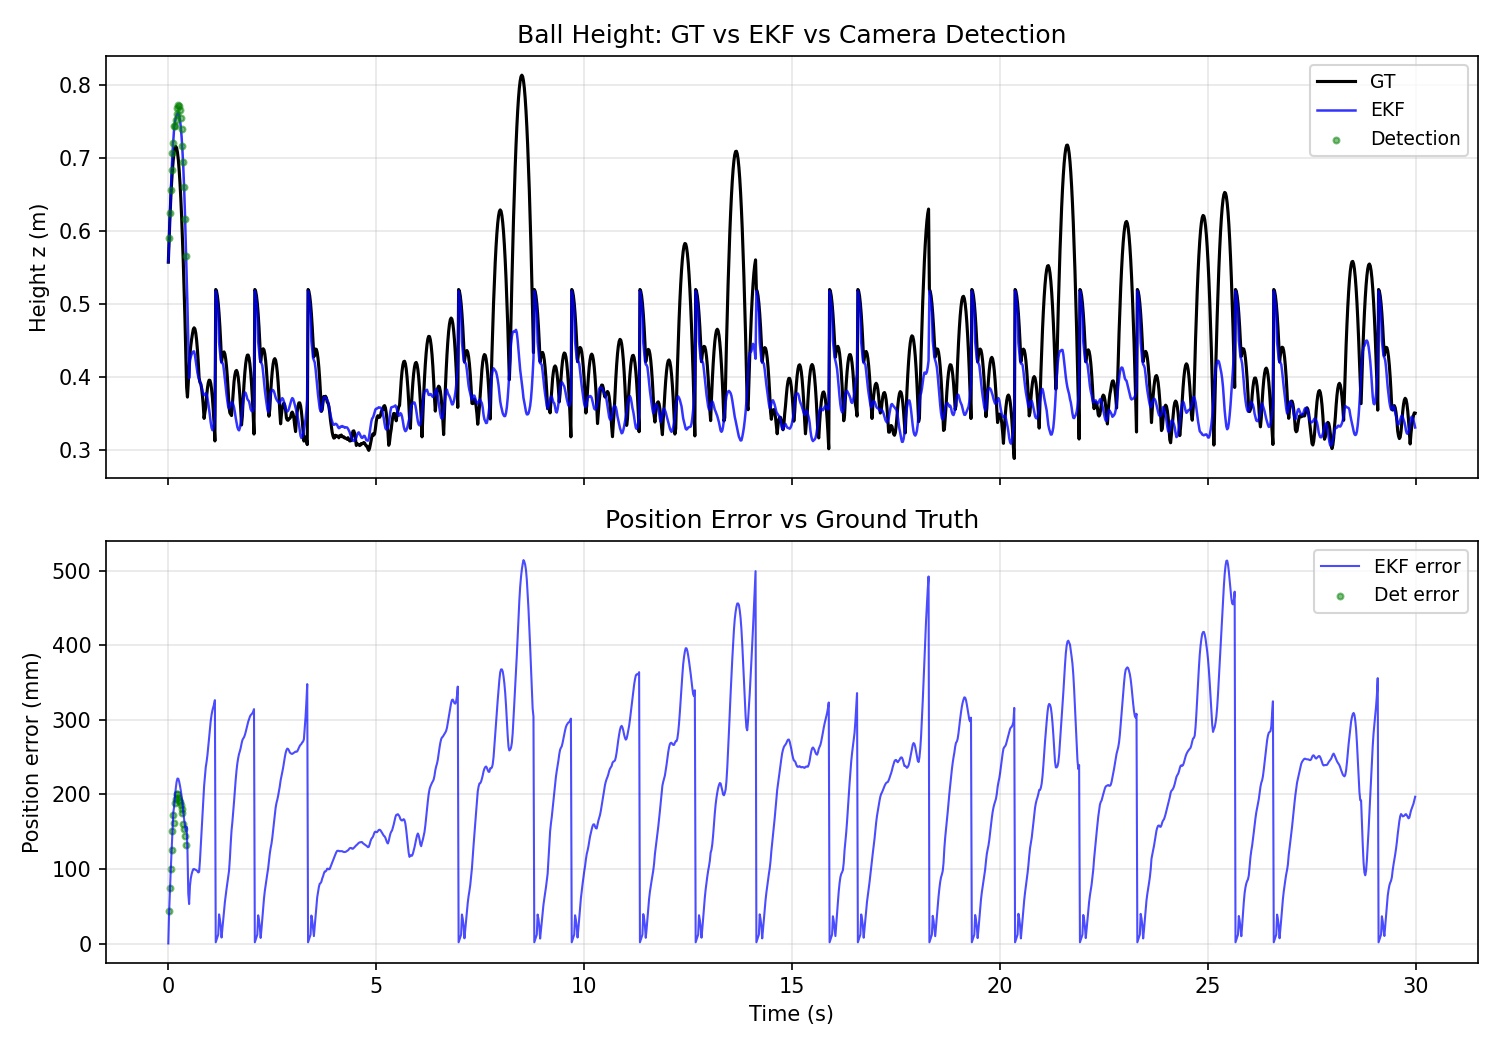
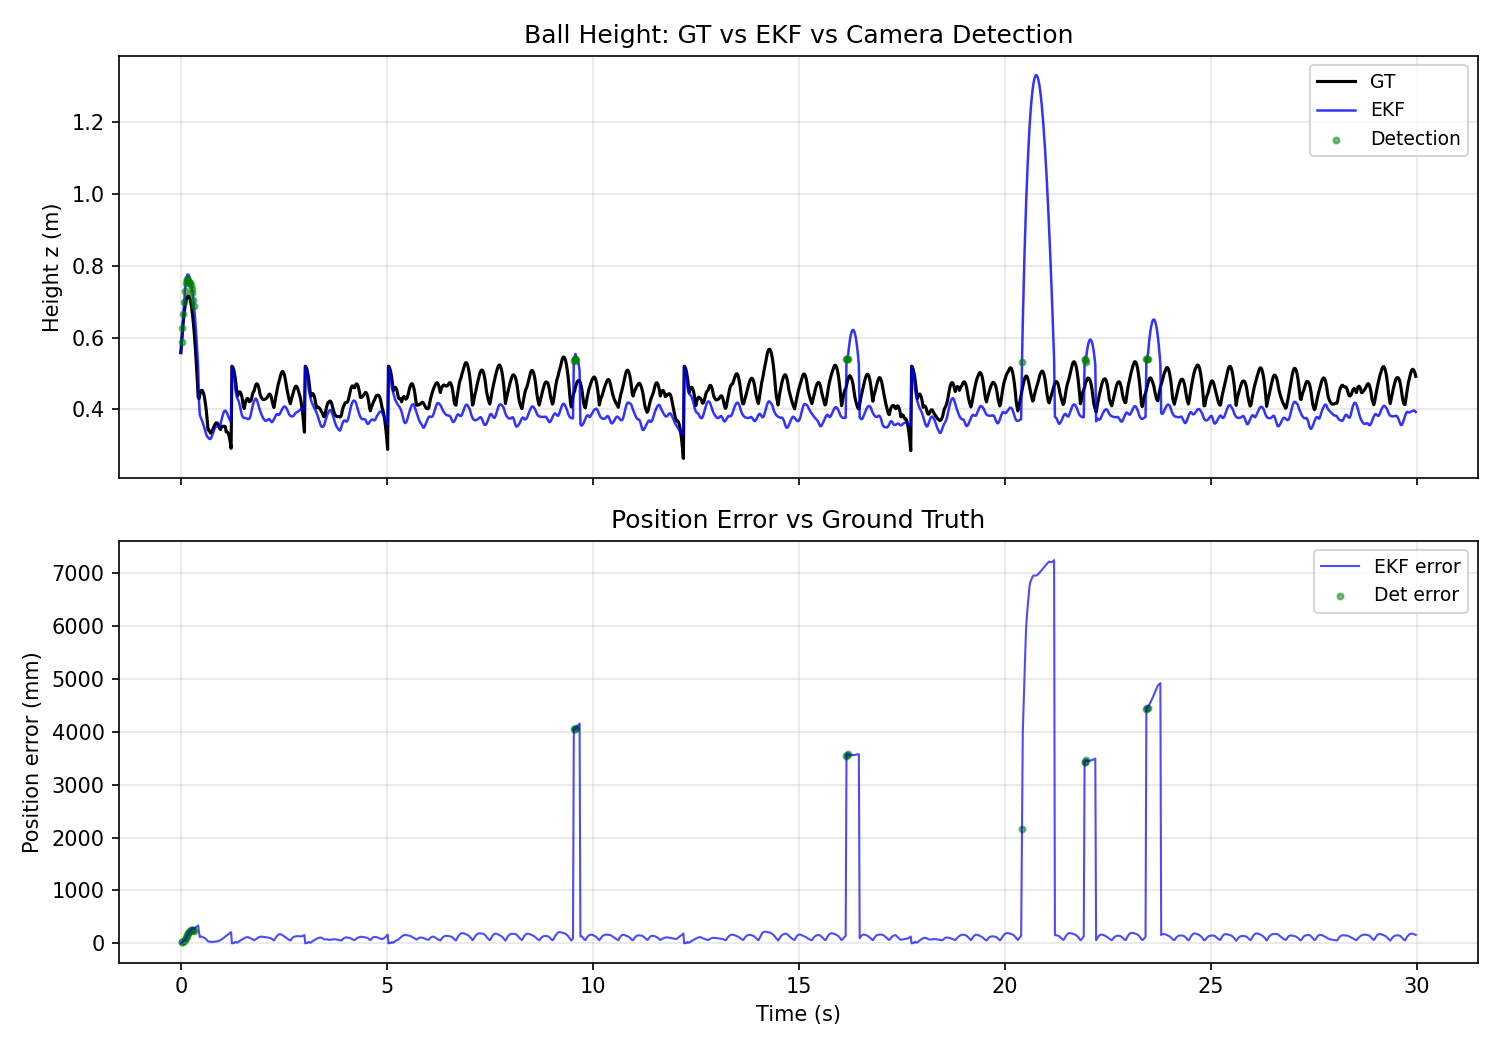
Iteration 116: Stage G starvation eval — det 1-2%, policy bottleneck confirmed

diff --git a/.c3r/RESEARCH_LOG.md b/.c3r/RESEARCH_LOG.md
@@ -125,3 +125,46 @@ Result:     Code ready. GPU eval needed to verify detection rate improvement.
 Decision:   Next iter: run Stage G eval with starve_limit=10 when GPU free. Compare
             detection rates vs iter 114 (limit=50). If GPU still blocked, consider
             preparing the anchor ablation analysis or Quarto experiment page.
+
+## Iteration 116 — Stage G starvation eval + pi2 default fix  (2026-04-09T14:30:00Z)
+Hypothesis: Reducing SCHED_STARVE_LIMIT from 50→10 (iter 115) will break the camera
+            scheduling death spiral, raising detection rate from ~1% to >30%.
+Change:     1. Fixed pi2 default in run_perception_eval.sh: 09-04-32 → 17-16-01
+               (matching the checkpoint the policy agent uses for Stage G training).
+            2. Ran full Stage G d435i eval: 5 targets (0.10-1.00), 1500 steps, 4 envs,
+               anchor=ON, camera-scheduling=ON, starve_limit=10.
+            3. Attempted oracle comparison but GPU blocked by policy training.
+Command:    gpu_lock.sh bash run_perception_eval.sh --pi1 .../2026-04-09_07-19-27/model_best.pt
+            --targets "0.10 0.30 0.50 0.70 1.00" --anchor --camera-scheduling
+            --starve-limit 10 --label stage_g_starve10 --steps 1500 --num-envs 4
+Result:     STARVATION FIX: MARGINAL IMPACT. Detection rates still 1.0-2.0% (vs 1.1%
+            in iter 114 with limit=50). Root cause is NOT starvation — it's that the
+            ball rarely enters flight.
+
+            | Target | Det% | EKF_RMSE | TO%  | Bounces | Flight% | Peak   |
+            |--------|------|----------|------|---------|---------|--------|
+            | 0.10   | 1.0% | 0.145m   | 75%  | 0.0     | 0.0%    | 0.000m |
+            | 0.30   | 1.1% | 0.146m   | 50%  | 0.5     | 2.0%    | 0.662m |
+            | 0.50   | 1.0% | 0.142m   | 50%  | 0.2     | 0.9%    | 0.485m |
+            | 0.70   | 1.7% | 0.444m   | 0%   | 1.2     | 6.2%    | 0.503m |
+            | 1.00   | 2.0% | 0.436m   | 0%   | 2.2     | 23.2%   | 0.701m |
+
+            KEY FINDINGS:
+            - Low targets (0.10-0.50): Policy BALANCES (50-75% TO), never bounces.
+              EKF RMSE ~0.14m from anchor updates alone. Detection useless.
+            - High targets (0.70-1.00): Policy ATTEMPTS juggling but drops ball fast
+              (0% TO, 8-19 episodes). Ball reaches 0.5-0.7m (not target). Some detections
+              but huge detection RMSE (1.8-2.2m = false positives at distance).
+            - Anchor dominates: 87-98% anchor rate. EKF tracks via paddle position.
+            - Flight-conditional det rate: at target=1.00, 30 det / ~180 flight steps
+              ≈ 17% per flight-step — reasonable for the camera FOV.
+            - Core bottleneck is POLICY, not perception. The d435i Stage G checkpoint
+              can balance but can't juggle reliably.
+            - Policy agent currently training new Stage G run (nohup, PID 1348279,
+              from 2026-04-08_22-51-56 checkpoint).
+Decision:   Next iter: (1) run oracle comparison when GPU frees to confirm perception
+            vs policy split, (2) update Quarto with these findings. The perception
+            pipeline is essentially feature-complete — further progress depends on the
+            policy agent producing a better juggling policy. Consider running the
+            oracle-trained checkpoint (2026-04-08_19-19-41) through our pipeline to see
+            if it juggles better (it was oracle-trained Stage F, should balance well).

diff --git a/.c3r/SIBLINGS.md b/.c3r/SIBLINGS.md
@@ -27,15 +27,15 @@ Siblings will see it in their next SIBLINGS.md refresh.
 ## policy
 - **role**: generic
 - **focus**: retrain pi1 with noise-injected ball observations from the perception pipeline, validate degradation versus oracle baseline and restore performance via curriculum and noise scheduling.
-- **status**: running · iter #19 · ctx 81%
+- **status**: running · iter #20 · ctx 81%
 
 ### Recent commits on `agent/policy`
 ```
+e92a1df Iteration 31: Stage G training launched — mixed targets + height-dependent noise sync
 67aef9d Iteration 30: cross-eval analysis + Stage G preparation
 3b94cfd Iteration 29: fix eval partial-episode bug + corrected cross-eval
 c1236f9 Iteration 28: cross-eval — d435i vs oracle under swapped obs modes
 cce1b18 Iteration 27: d435i reaches Stage F — full comparison (apex +59% vs oracle)
-a7c6d74 Iteration 26: d435i vs oracle comparison — noise outperforms oracle at Stage E (+176% apex)
 ```
 ### Files modified on `agent/policy` (relative to `c3r/QuadruJuggle`)
 ```

diff --git a/.c3r/fix_plan.md b/.c3r/fix_plan.md
@@ -32,8 +32,9 @@
 - [x] ROOT CAUSE: policy is balancing (Stage F), not juggling. Camera works fine during flight.
 - [~] UNBLOCKING: policy agent training Stage G now (d435i noise, mixed targets 0.10-0.50m)
   - [x] Created parameterized run_perception_eval.sh (iter 112) — replaces hardcoded scripts
-  - [ ] Run Stage G eval: `run_perception_eval.sh --pi1 <stage_g_best.pt> --targets "0.10 0.30 0.50 0.70 1.00" --anchor --camera-scheduling --label stage_g`
-  - [ ] Compare Stage G vs Stage F: anchor ON vs OFF, camera scheduling impact
+  - [x] Run Stage G eval (iter 116): det 1-2%, EKF RMSE 0.14-0.44m. Policy balances, doesn't juggle.
+  - [ ] Run oracle comparison when GPU free (confirm policy vs perception split)
+  - [ ] Run oracle-trained checkpoint through d435i pipeline (does it balance better?)
 - [x] EKF covariance clamping for sparse-measurement regime (iter 103)
   - p_max_pos=0.25m, p_max_vel=5.0m/s prevents P divergence during long predict-only
   - steps_since_measurement counter for diagnostics
